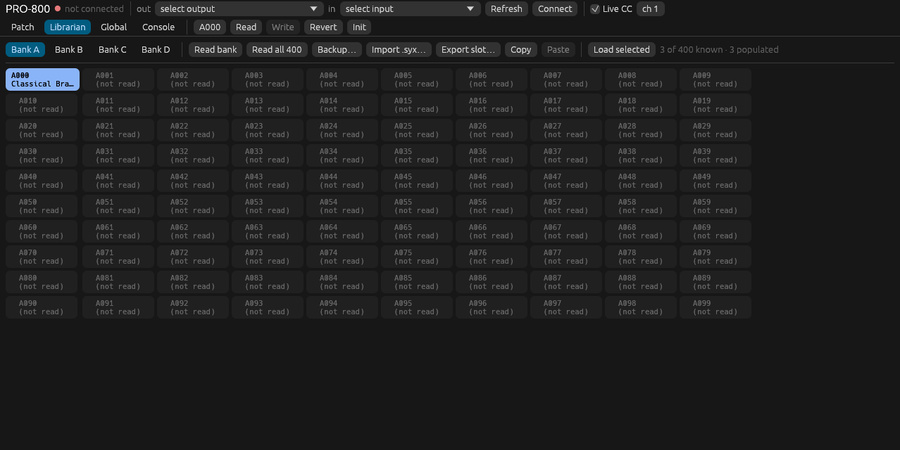
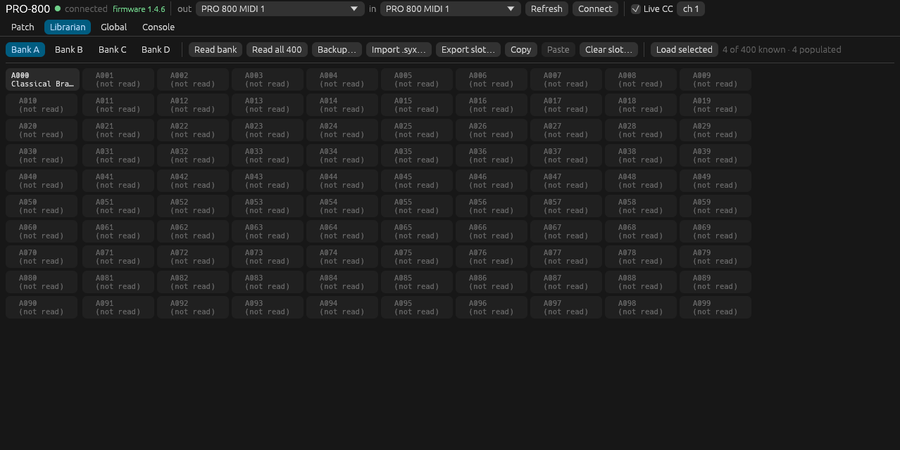
pro-800: consolidate slot and patch controls
Remove the duplicate slot field and Read/Write/Revert/Init from the top bar. The Patch header now holds the only slot field, next to the name and the four actions.

The slot is a labeled monospace text input, not a button. Leaving it auto-reads the new slot, and Write stays disabled until the editor patch belongs to the selected slot. Refresh the screenshots.

diff --git a/crates/pro-800/src/app.rs b/crates/pro-800/src/app.rs
@@ -87,6 +87,8 @@ pub struct Pro800App {
     tab: Tab,
 
     slot: u16,
+    slot_buf: String,
+    slot_error: Option<String>,
     patch: Option<Patch>,
     snapshot: Option<Patch>,
     name_buf: String,
@@ -126,6 +128,8 @@ impl Pro800App {
             log: Log::default(),
             tab: Tab::Patch,
             slot: 0,
+            slot_buf: patch::slot_label(0),
+            slot_error: None,
             patch: None,
             snapshot: None,
             name_buf: String::new(),
@@ -169,6 +173,14 @@ impl Pro800App {
         app.refresh_ports();
         app.auto_connect(cc.egui_ctx.clone());
         app
+    }
+
+    /// Select a program slot and keep the editable field in sync.
+    fn set_slot(&mut self, index: u16) {
+        let index = index.min(patch::MAX_SLOT);
+        self.slot = index;
+        self.slot_buf = patch::slot_label(index);
+        self.slot_error = None;
     }
 
     // ------------------------------------------------------------ connection
@@ -423,7 +435,7 @@ impl Pro800App {
                     .zip(block.get(6).copied())
                     .map(|(lsb, msb)| patch::global_index(lsb, msb).min(patch::MAX_SLOT))
                     .unwrap_or(0);
-                self.slot = selected;
+                self.set_slot(selected);
                 self.queue_load(selected);
             }
             return;
@@ -722,7 +734,7 @@ impl Pro800App {
     // ------------------------------------------------------------------ patch
 
     fn load_patch(&mut self, patch: Patch) {
-        self.slot = patch.index;
+        self.set_slot(patch.index);
         self.name_buf = patch.name();
         self.snapshot = Some(patch.clone());
         self.patch = Some(patch);
@@ -955,7 +967,7 @@ impl Pro800App {
     }
 
     fn load_cached_or_read(&mut self, index: u16) {
-        self.slot = index;
+        self.set_slot(index);
         if let Some(patch) = self.lib.get(index).patch().cloned() {
             self.load_patch(patch);
         } else {
@@ -1050,41 +1062,6 @@ impl Pro800App {
                     self.tab = tab;
                 }
             }
-            ui.separator();
-            let mut slot = i64::from(self.slot);
-            if ui
-                .add(
-                    egui::DragValue::new(&mut slot)
-                        .range(0..=i64::from(patch::MAX_SLOT))
-                        .custom_formatter(|value, _| {
-                            patch::slot_label(value.clamp(0.0, 399.0) as u16)
-                        }),
-                )
-                .changed()
-            {
-                self.slot = slot.clamp(0, i64::from(patch::MAX_SLOT)) as u16;
-            }
-            if ui.button("Read").clicked() {
-                self.read_slot();
-            }
-            if ui
-                .add_enabled(
-                    self.connected() && self.patch.is_some(),
-                    egui::Button::new("Write"),
-                )
-                .clicked()
-            {
-                self.write_slot();
-            }
-            if ui
-                .add_enabled(self.snapshot.is_some(), egui::Button::new("Revert"))
-                .clicked()
-            {
-                self.revert();
-            }
-            if ui.button("Init").clicked() {
-                self.init_patch();
-            }
             if self.dirty {
                 ui.label(RichText::new("pending edits").color(WARN).size(11.0));
             }
@@ -1093,11 +1070,41 @@ impl Pro800App {
 
     fn patch_tab(&mut self, ui: &mut egui::Ui) {
         ui.horizontal(|ui| {
-            ui.label(
-                RichText::new(patch::slot_label(self.slot))
-                    .monospace()
-                    .strong(),
+            ui.label(RichText::new("Slot").color(MUTED).size(11.0));
+            let text_color = if self.slot_error.is_some() {
+                DANGER
+            } else {
+                Color32::from_gray(0xE8)
+            };
+            let edit = ui.add_sized(
+                [72.0, 22.0],
+                egui::TextEdit::singleline(&mut self.slot_buf)
+                    .font(egui::TextStyle::Monospace)
+                    .align(egui::Align2::CENTER_CENTER)
+                    .hint_text("B099")
+                    .text_color(text_color),
             );
+            if edit.lost_focus() {
+                match patch::parse_slot(&self.slot_buf) {
+                    Ok(index) => {
+                        self.set_slot(index);
+                        if self.connected() {
+                            self.read_slot();
+                        }
+                    }
+                    Err(err) => self.slot_error = Some(err),
+                }
+            }
+            match &self.slot_error {
+                Some(err) => {
+                    edit.on_hover_text(err);
+                    ui.label(RichText::new("invalid slot").color(DANGER).size(10.5));
+                }
+                None => {
+                    edit.on_hover_text("Program slot: B099, b94, 194 or 194/0xC2");
+                }
+            }
+            let slot_ok = self.slot_error.is_none();
             let name_width = 190.0;
             let response = ui.add_sized(
                 [name_width, 22.0],
@@ -1123,25 +1130,51 @@ impl Pro800App {
                 }
             }
             ui.separator();
-            if ui.button("Load from slot").clicked() {
+            if ui.add_enabled(slot_ok, egui::Button::new("Read")).clicked() {
                 self.read_slot();
             }
+            let editor_matches_slot = self
+                .patch
+                .as_ref()
+                .is_some_and(|patch| patch.index == self.slot);
             if ui
-                .add_enabled(self.connected(), egui::Button::new("Write to slot"))
+                .add_enabled(
+                    slot_ok && self.connected() && editor_matches_slot,
+                    egui::Button::new("Write"),
+                )
                 .clicked()
             {
                 self.write_slot();
             }
-            if ui.button("Revert to read").clicked() {
+            if let Some(patch) = &self.patch
+                && patch.index != self.slot
+            {
+                ui.label(
+                    RichText::new(format!("editor holds {}", patch::slot_label(patch.index)))
+                        .color(WARN)
+                        .size(10.5),
+                );
+            }
+            if ui
+                .add_enabled(self.snapshot.is_some(), egui::Button::new("Revert"))
+                .clicked()
+            {
                 self.revert();
             }
-            ui.separator();
-            ui.label(
-                RichText::new("live CC preview follows the knobs; Write stores the whole patch")
-                    .color(MUTED)
-                    .size(11.0),
-            );
+            if ui.button("Init").clicked() {
+                self.init_patch();
+            }
+            if self.dirty {
+                ui.label(RichText::new("pending edits").color(WARN).size(11.0));
+            }
         });
+        ui.label(
+            RichText::new(
+                "live CC preview follows the knobs; Write stores the whole patch, padded to 173 bytes",
+            )
+            .color(MUTED)
+            .size(10.5),
+        );
         ui.separator();
         if self.patch.is_none() {
             ui.vertical_centered(|ui| {
@@ -1501,7 +1534,7 @@ impl Pro800App {
             .min_size(egui::vec2(102.0, 32.0));
         let response = ui.add(button);
         if response.clicked() {
-            self.slot = index;
+            self.set_slot(index);
         }
         if response.double_clicked() {
             self.load_cached_or_read(index);
@@ -1857,20 +1890,22 @@ impl ShotApp {
         let mut inner = Pro800App::new(cc);
         // The screenshot path runs without hardware: show captured programs and
         // a captured global block so the picture documents the real surface.
+        let hardware = inner.connected();
         for fixture in [
             &include_bytes!("../../../verified/pro-800-a000.syx")[..],
             &include_bytes!("../../../verified/pro-800-b094.syx")[..],
             &include_bytes!("../../../verified/pro-800-c054.syx")[..],
         ] {
             for patch in patch::patches_from_syx(fixture) {
-                if patch.index == 0 {
+                if patch.index == 0 && !hardware {
                     inner.load_patch(patch.clone());
                 }
                 inner.lib.put(patch);
             }
         }
-        if let Some(block) =
-            patch::global_reply(include_bytes!("../../../verified/pro-800-globals.syx"))
+        if !hardware
+            && let Some(block) =
+                patch::global_reply(include_bytes!("../../../verified/pro-800-globals.syx"))
         {
             inner.globals = Some(block);
         }
